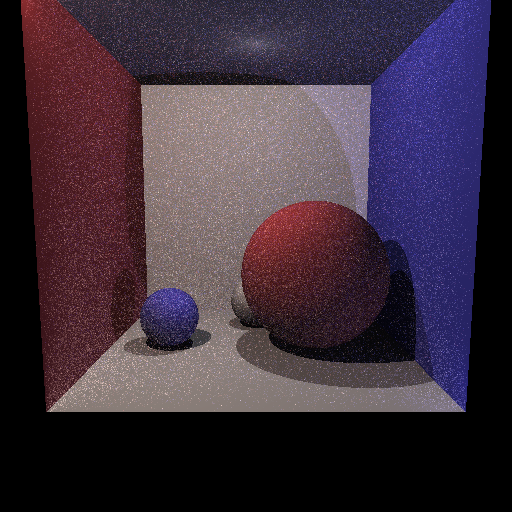
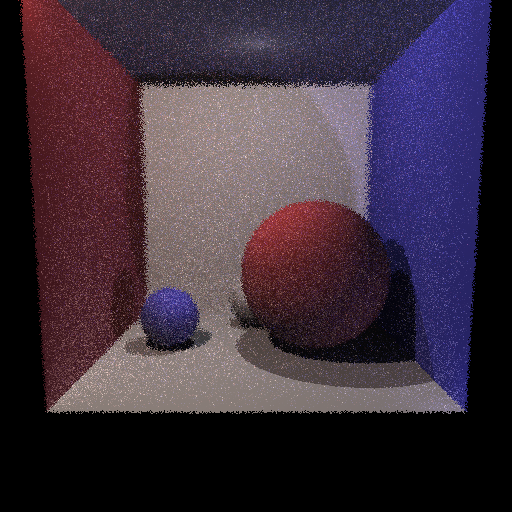
Switched from clang++ to g++.  last update before beginning threaded render change

Changed region(s): [[0.0312, 0.0, 0.9688, 0.8125]]

diff --git a/main.cpp b/main.cpp
@@ -20,6 +20,8 @@
 /********************************** Sources **************************************/
 //Timing:
 //http://stackoverflow.com/questions/459691/best-timing-method-in-c
+//Threading:
+//http://stackoverflow.com/questions/7686939/c-simple-return-value-from-stdthread
 
 /***************************** Headers and Structs *******************************/
 
@@ -29,8 +31,14 @@
 #include <time.h>
 
 #include <stack>
-using std::stack;
+#include <thread>
+#include <iostream>
+// #include <future>
 
+using namespace std;
+
+
+static const int num_threads = 4;
 
 /***************************** Forward declarations *******************************/
 
@@ -39,6 +47,8 @@ float sphereIntersection(Sphere* sphere, Ray* ray);
 vec3 sphereNormal(Sphere* sphere, vec3 pos);
 vec3 triNormal(Triangle* tri);
 float triIntersection(Triangle* tri, Ray* ray);
+// float* renderThreaded(Scene* scene, KDtree* tree);
+void writeColor(float* img, vec3 color, int x, int y);
 float* render(Scene* scene, KDtree* tree);
 vec3 trace(Ray* ray, Scene* scene, KDtree* tree, vec3 *pointAtTime, float *contribution);
 Dist intersectSceneAccel(Ray *ray, KDnode* node);
@@ -470,11 +480,93 @@ float* render(Scene* scene, KDtree *tree) {
         //     color = add(color, trace(&ray, scene, tree, 0));
 
             //One ray per pixel; no antialiasing
-            ray.point = camera->point;
-            vec3 xcomp = scale(vpRight, ((x) * pixelWidth) - halfWidth);
-            vec3 ycomp = scale(vpUp, ((y) * pixelHeight) - halfHeight);
-            ray.vector = unitVector(add3(eyeVector, xcomp, ycomp));
+            // ray.point = camera->point;
+            // vec3 xcomp = scale(vpRight, ((x) * pixelWidth) - halfWidth);
+            // vec3 ycomp = scale(vpUp, ((y) * pixelHeight) - halfHeight);
+            // ray.vector = unitVector(add3(eyeVector, xcomp, ycomp));
+            // // printf("Ray point (%f, %f, %f); ray vector (%f, %f, %f)\n", ray.point.x, ray.point.y, ray.point.z, ray.vector.x, ray.vector.y, ray.vector.z);
+            
+            // //CAMERA DEPTH OF FIELD: One ray per pixel; no antialiasing
+            // //assume aperture size (radius?) of 1 unit, focal length of 40 units
+            // float apertureSize = 1.0;
+            // float focalDepth = 80.0;
+            // //generate random sample, 
+            // float disk_u1 = drand48();
+            // float disk_u2 = drand48();
+            // float uniform_r = sqrt(disk_u1);
+            // float uniform_theta = 2.0*PI*disk_u2;
+            // //transform polar to cartesian
+            // float uniform_x = uniform_r*cos(uniform_theta);
+            // float uniform_y = uniform_r*sin(uniform_theta);
+            // //get disk sample
+            // vec3 uniform_diskSample = {
+            //   .x = uniform_x,
+            //   .y = uniform_y,
+            //   .z = 0.0
+            // };
+            // vec3 apertureOffset = scale(uniform_diskSample, apertureSize);
+            // // offset ray origin with aperture offset
+            // ray.point = add(camera->point, apertureOffset);
+            // //get standard ray direction
+            // vec3 xcomp = scale(vpRight, ((x) * pixelWidth) - halfWidth);
+            // vec3 ycomp = scale(vpUp, ((y) * pixelHeight) - halfHeight);
+            // ray.vector = add3(eyeVector, xcomp, ycomp);
+            // //scale the ray direction by focal depth plane
+            // ray.vector = scale(ray.vector, focalDepth);
+            // //subtract apertureOffset
+            // ray.vector = subtract(ray.vector, apertureOffset);
+            // //normalize ray vector
+            // ray.vector = unitVector(ray.vector);
+            // // printf("Ray point (%f, %f, %f); ray vector (%f, %f, %f)\n", ray.point.x, ray.point.y, ray.point.z, ray.vector.x, ray.vector.y, ray.vector.z);
+
+
+            //PBRT CAMERA DEPTH OF FIELD
+            //lensRadius and focalDepth assumptions:
+            float lensRadius = 3.0;
+            float focalDepth = 80.0;
+            if(lensRadius > 0.0){
+              //generate random sample, 
+              float disk_u1 = drand48();
+              float disk_u2 = drand48();
+              float uniform_r = sqrt(disk_u1);
+              float uniform_theta = 2.0*PI*disk_u2;
+              //transform polar to cartesian
+              float lensU = uniform_r*cos(uniform_theta);
+              float lensV = uniform_r*sin(uniform_theta);
+              //scale by lens radius
+              lensU *= lensRadius;
+              lensV *= lensRadius;
+              //get disk sample
+              vec3 uniform_diskSample = {
+                .x = lensU,
+                .y = lensV,
+                .z = 0.0
+              };
+              //Update ray.point with lens sample
+              ray.point = add(camera->point, uniform_diskSample);
+              //Set standard ray direction
+              vec3 xcomp = scale(vpRight, ((x) * pixelWidth) - halfWidth);
+              vec3 ycomp = scale(vpUp, ((y) * pixelHeight) - halfHeight);
+              ray.vector = unitVector(add3(eyeVector, xcomp, ycomp));
+              //Compute point on plane of focus
+              float ft = fabs(focalDepth - camera->point.z)/ray.vector.z;
+              vec3 Pfocus = subtract(camera->point, scale(ray.vector, ft));
+              // printf("Point of focus (%f, %f, %f)\n", Pfocus.x, Pfocus.y, Pfocus.z);
+              //Update ray
+              // ray.vector = subtract(Pfocus, uniform_diskSample);
+              // ray.vector = unitVector(add(eyeVector, ray.vector));
+              ray.vector = unitVector(subtract(Pfocus, ray.point));
+            }
+            //if lens is pinhole, then standard ray.point and direction calculation
+            else{
+              ray.point = camera->point;
+              vec3 xcomp = scale(vpRight, ((x) * pixelWidth) - halfWidth);
+              vec3 ycomp = scale(vpUp, ((y) * pixelHeight) - halfHeight);
+              ray.vector = unitVector(add3(eyeVector, xcomp, ycomp));
+            }
             // printf("Ray point (%f, %f, %f); ray vector (%f, %f, %f)\n", ray.point.x, ray.point.y, ray.point.z, ray.vector.x, ray.vector.y, ray.vector.z);
+
+
             //Direct lighting
             vec3 pointAtTime = ray.point; //first intersection point is ray origin
             float contribution = 0.0; //we assign roulette value as contribution
@@ -556,6 +648,9 @@ float* render(Scene* scene, KDtree *tree) {
   return img;
 }
 
+/***************************** Threaded Render *******************************/
+
+
 
 /***************************** Tone map *******************************/
 
@@ -577,56 +672,9 @@ void tone_map(float* img, int size){
 
 /***************************** Main loop *******************************/
 
-// //testing
-// int main(int argc, char const *argv[])
-// {
-//   // TEST_INTERSECT();
-
-//   //Confirm there is a scene file
-//   if(argc != 3){
-//     fprintf(stderr, "Usage: ./main <.bin file> <.png name>\n");
-//     return -1;
-//   }
-
-//   //Grab command line args
-//   char infile[50], outfile[50];
-//   strcpy(infile, argv[1]);
-//   strcpy(outfile, argv[2]);
-
-//    // Initialize SCEscene and Parser
-//   SCEscene scene = SCEscene();
-//   Parse parse = Parse();
-
-//   //Call parser
-//   if(parse.parseSCE(infile, &scene) != 0){
-//     fprintf(stderr, "Parsing failed\n");
-//     return -1;
-//   }
-
-//   // Build the scene
-//   scene.build_scene();
-
-//   printf("Sanity check the scene\n");
-//   scene.print_scene();
-
-//   //build the kd tree
-//   vec3 boundMin = {
-//     .x = -500.0,
-//     .y = -500.0,
-//     .z = -500.0
-//   };
-//   vec3 boundMax = {
-//     .x = 500.0,
-//     .y = 500.0,
-//     .z = 500.0
-//   };
-//   KDtree kdtree = KDtree(boundMin, boundMax, &scene);
-//   KDnode* root = kdtree.get_kdtree();
-//   (*root).print();
-
-//   return 0;
+// void call_from_thread(int i) {
+//   std::cout << "Hello World from " << i << std::endl;
 // }
-
 
 int main (int argc, char const *argv[]){
 
@@ -687,6 +735,33 @@ int main (int argc, char const *argv[]){
   printf("Getting the scene pointer\n");
   float* img = render(s_scene_ptr, &kdtree);
   
+  /////////TESTING//////////
+  // //make array
+  // std::thread t[num_threads];
+
+  // for(int i=0; i<num_threads; i++){
+  //   t[i] = std::thread(call_from_thread, i);
+  // }
+
+  // for(int i=0; i<num_threads; i++){
+  //   t[i].join();
+  // }
+  ///////////////////////////
+
+  /////////THREADED RENDER////////
+  //render each quarter and tone map each quarter
+
+  thread t[num_threads];
+
+
+
+
+
+  /////////////////////////////////
+
+
+
+
 
   tone_map(img, HEIGHT * WIDTH * 4);
 
